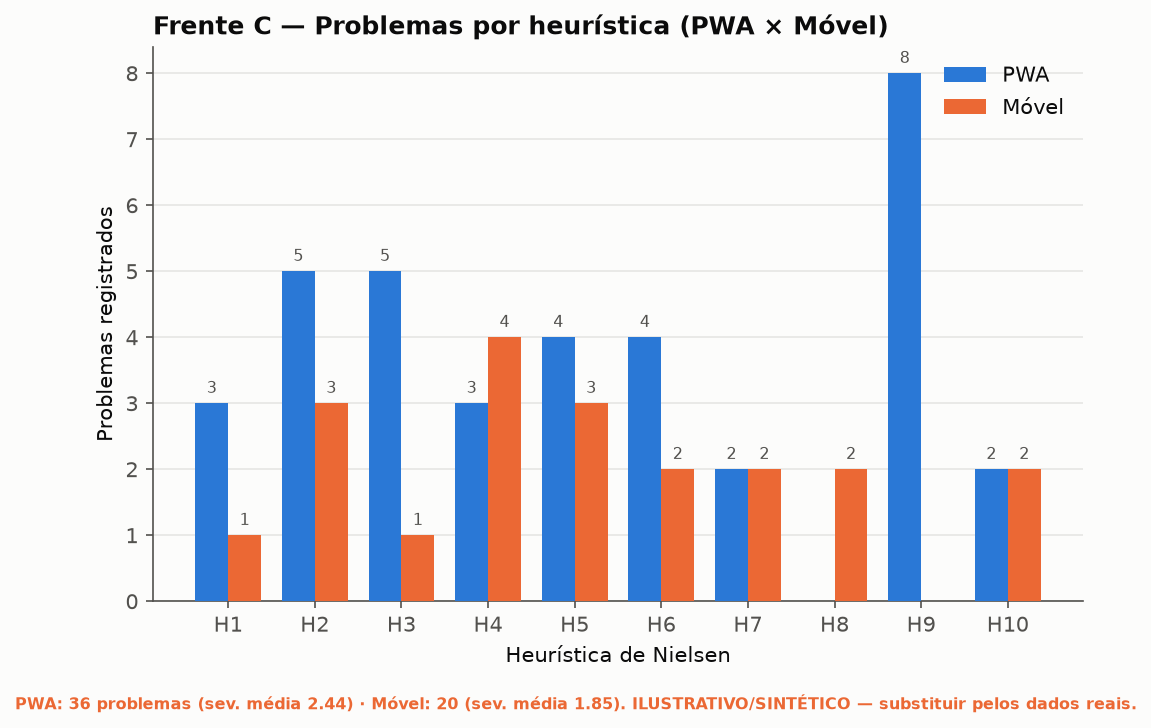
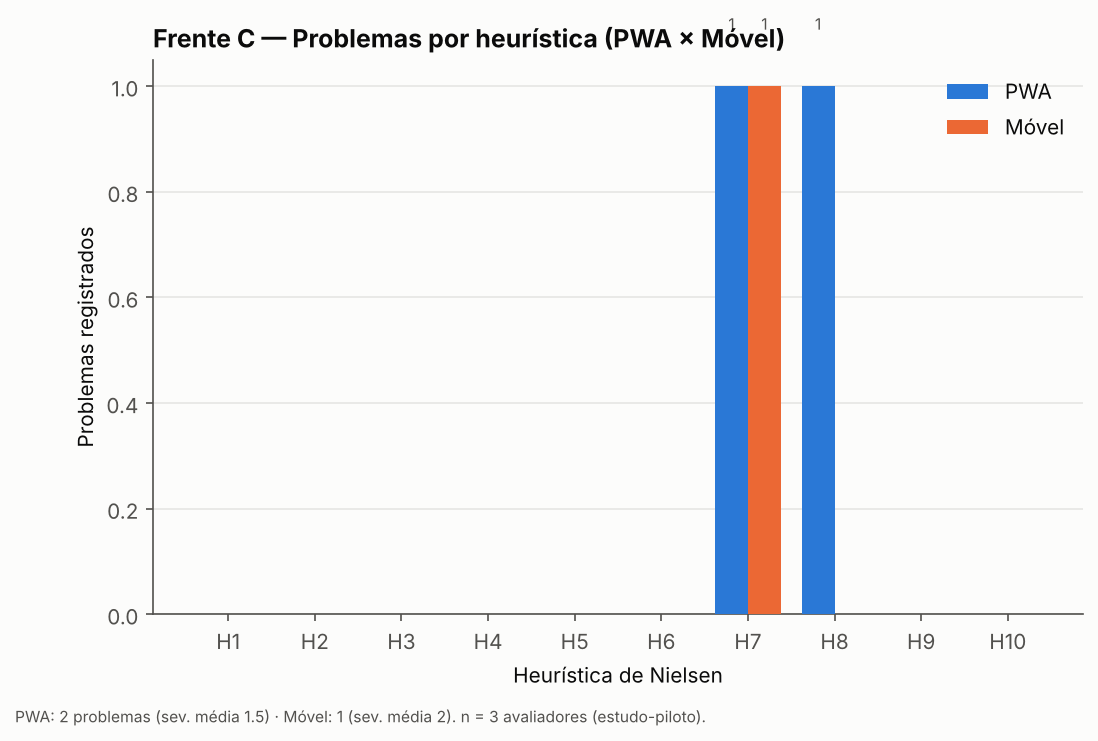
feat(tcc): Frente C com dados reais (estudo-piloto) + figura sem rotulo sintetico
Consolida as respostas reais da inspecao heuristica (Forms): 3 problemas
(PWA 2, sev media 1,5; Movel 1, sev media 2,0), respostas de severidade 0
descartadas. Script ganha flag --natureza e a figura mostra "n avaliadores
(estudo-piloto)" quando real, em vez do aviso de sintetico.

Claude-Session: https://claude.ai/code/session_01XxxEWns12EzThGBpbfqJb4

Changed region(s): [[0.0, 0.0, 0.9909, 0.9973], [0.7741, 0.9368, 0.9909, 0.9973]]

diff --git a/tests/gerar_graficos.py b/tests/gerar_graficos.py
@@ -261,11 +261,14 @@ def fig_inspecao_heuristica():
     ax.legend(frameon=False, loc="upper right")
     pc = resumo["por_cliente"]
     ax.set_title("Frente C — Problemas por heurística (PWA × Móvel)", fontweight="bold", loc="left")
-    fig.text(0.01, -0.04,
-             f"PWA: {pc['PWA']['problemas']} problemas (sev. média {pc['PWA']['severidade_media']}) · "
-             f"Móvel: {pc['Móvel']['problemas']} (sev. média {pc['Móvel']['severidade_media']}). "
-             f"ILUSTRATIVO/SINTÉTICO — substituir pelos dados reais.",
-             fontsize=7.5, color=LARANJA, fontweight="bold")
+    nota = (f"PWA: {pc['PWA']['problemas']} problemas (sev. média {pc['PWA']['severidade_media']}) · "
+            f"Móvel: {pc['Móvel']['problemas']} (sev. média {pc['Móvel']['severidade_media']}). "
+            f"n = {resumo.get('n_avaliadores', '?')} avaliadores (estudo-piloto).")
+    if resumo.get("natureza") == "sintético":
+        nota += "  ILUSTRATIVO/SINTÉTICO — substituir pelos dados reais."
+    fig.text(0.01, -0.04, nota, fontsize=7.5,
+             color=LARANJA if resumo.get("natureza") == "sintético" else CINZA,
+             fontweight="bold" if resumo.get("natureza") == "sintético" else "normal")
     _salvar(fig, "fig_frente_c_inspecao_heuristica.png")
 
 

diff --git a/tests/consolidar_inspecao.py b/tests/consolidar_inspecao.py
@@ -51,6 +51,8 @@ def main():
     p = argparse.ArgumentParser(description="Consolidação da inspeção heurística (Frente C).")
     p.add_argument("--entrada", required=True, help="CSV unificado dos avaliadores.")
     p.add_argument("--relatorio-json", default=None, help="(Opcional) resumo JSON para gráficos.")
+    p.add_argument("--natureza", default="real", choices=["real", "sintético"],
+                   help="Marca a origem dos dados (rotula o gráfico quando sintético).")
     args = p.parse_args()
 
     if not os.path.exists(args.entrada):
@@ -114,6 +116,7 @@ def main():
 
     resumo = {
         "frente": "C — Usabilidade (inspeção heurística)",
+        "natureza": args.natureza,
         "clientes": CLIENTES,
         "por_cliente": {c: {
             "problemas": por_cliente[c]["n"],
